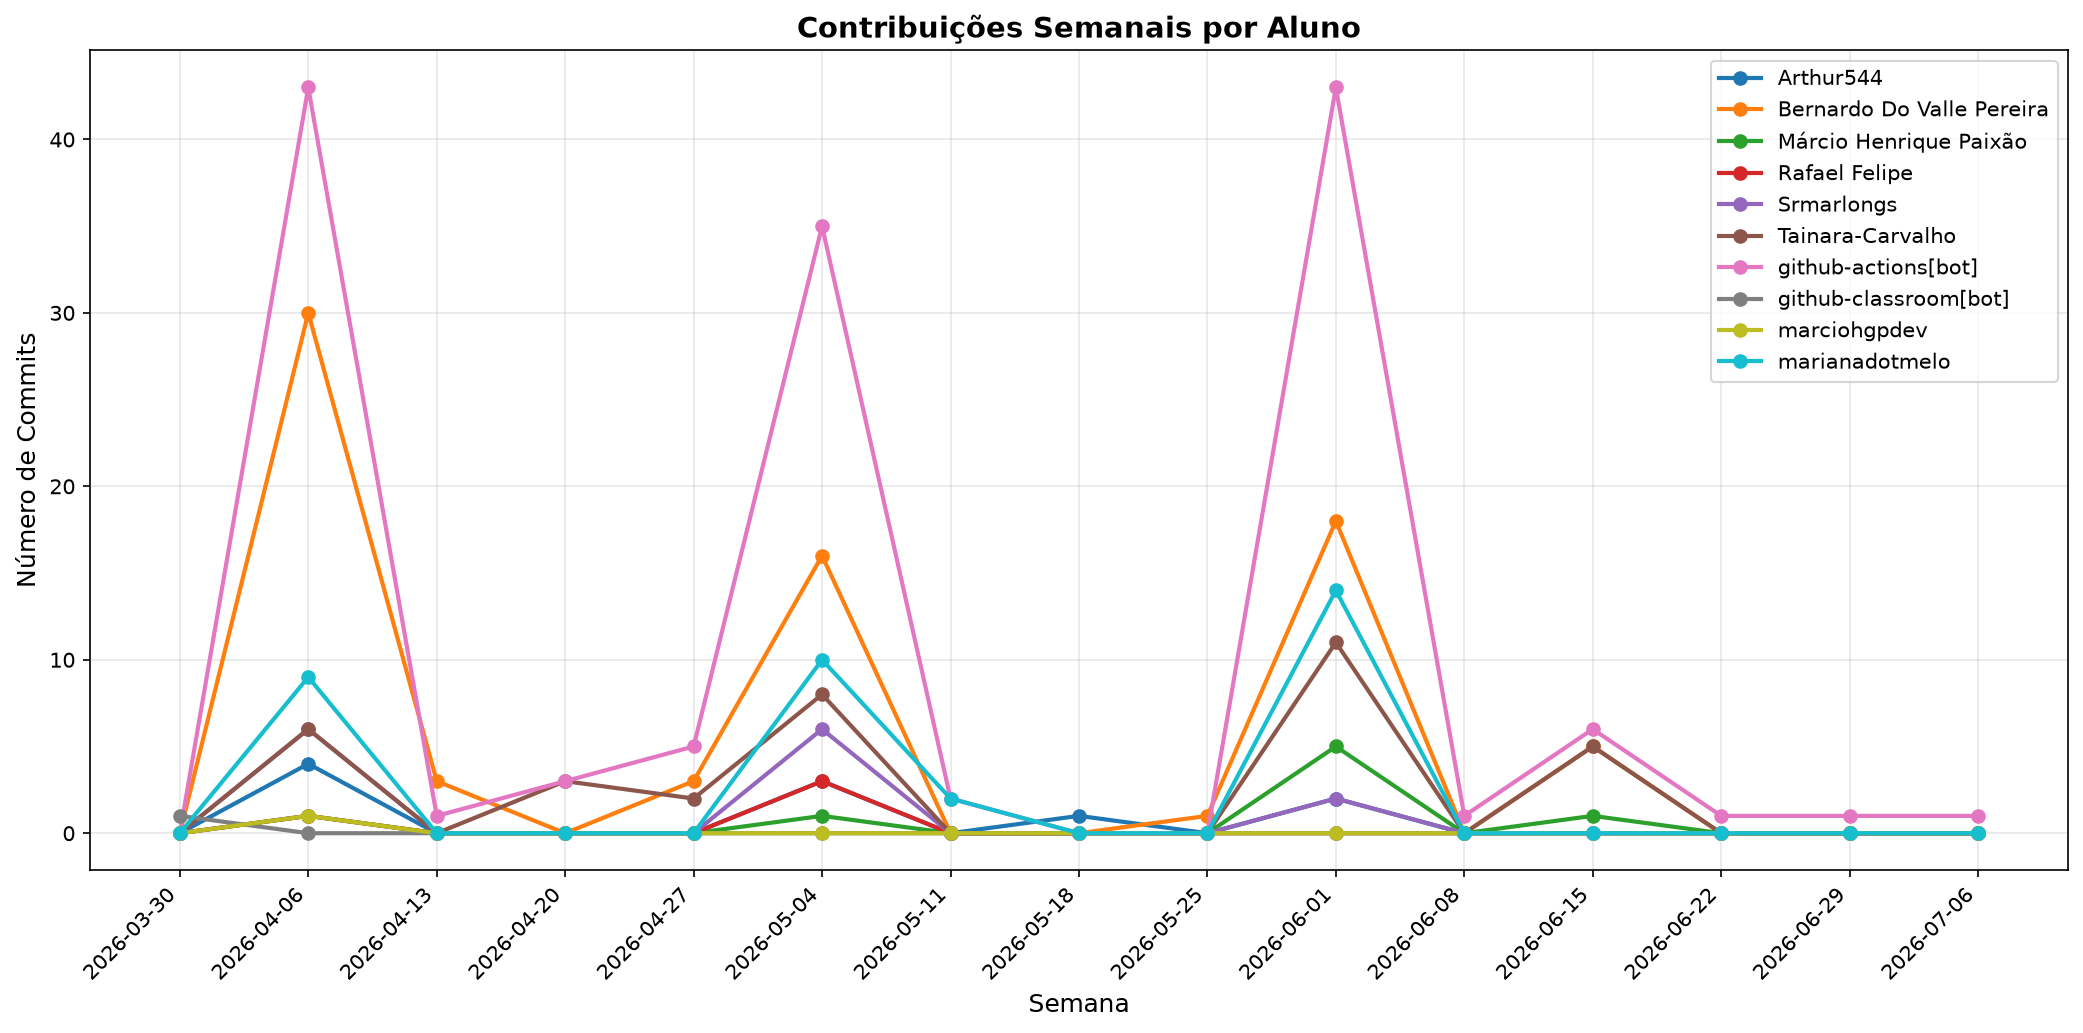
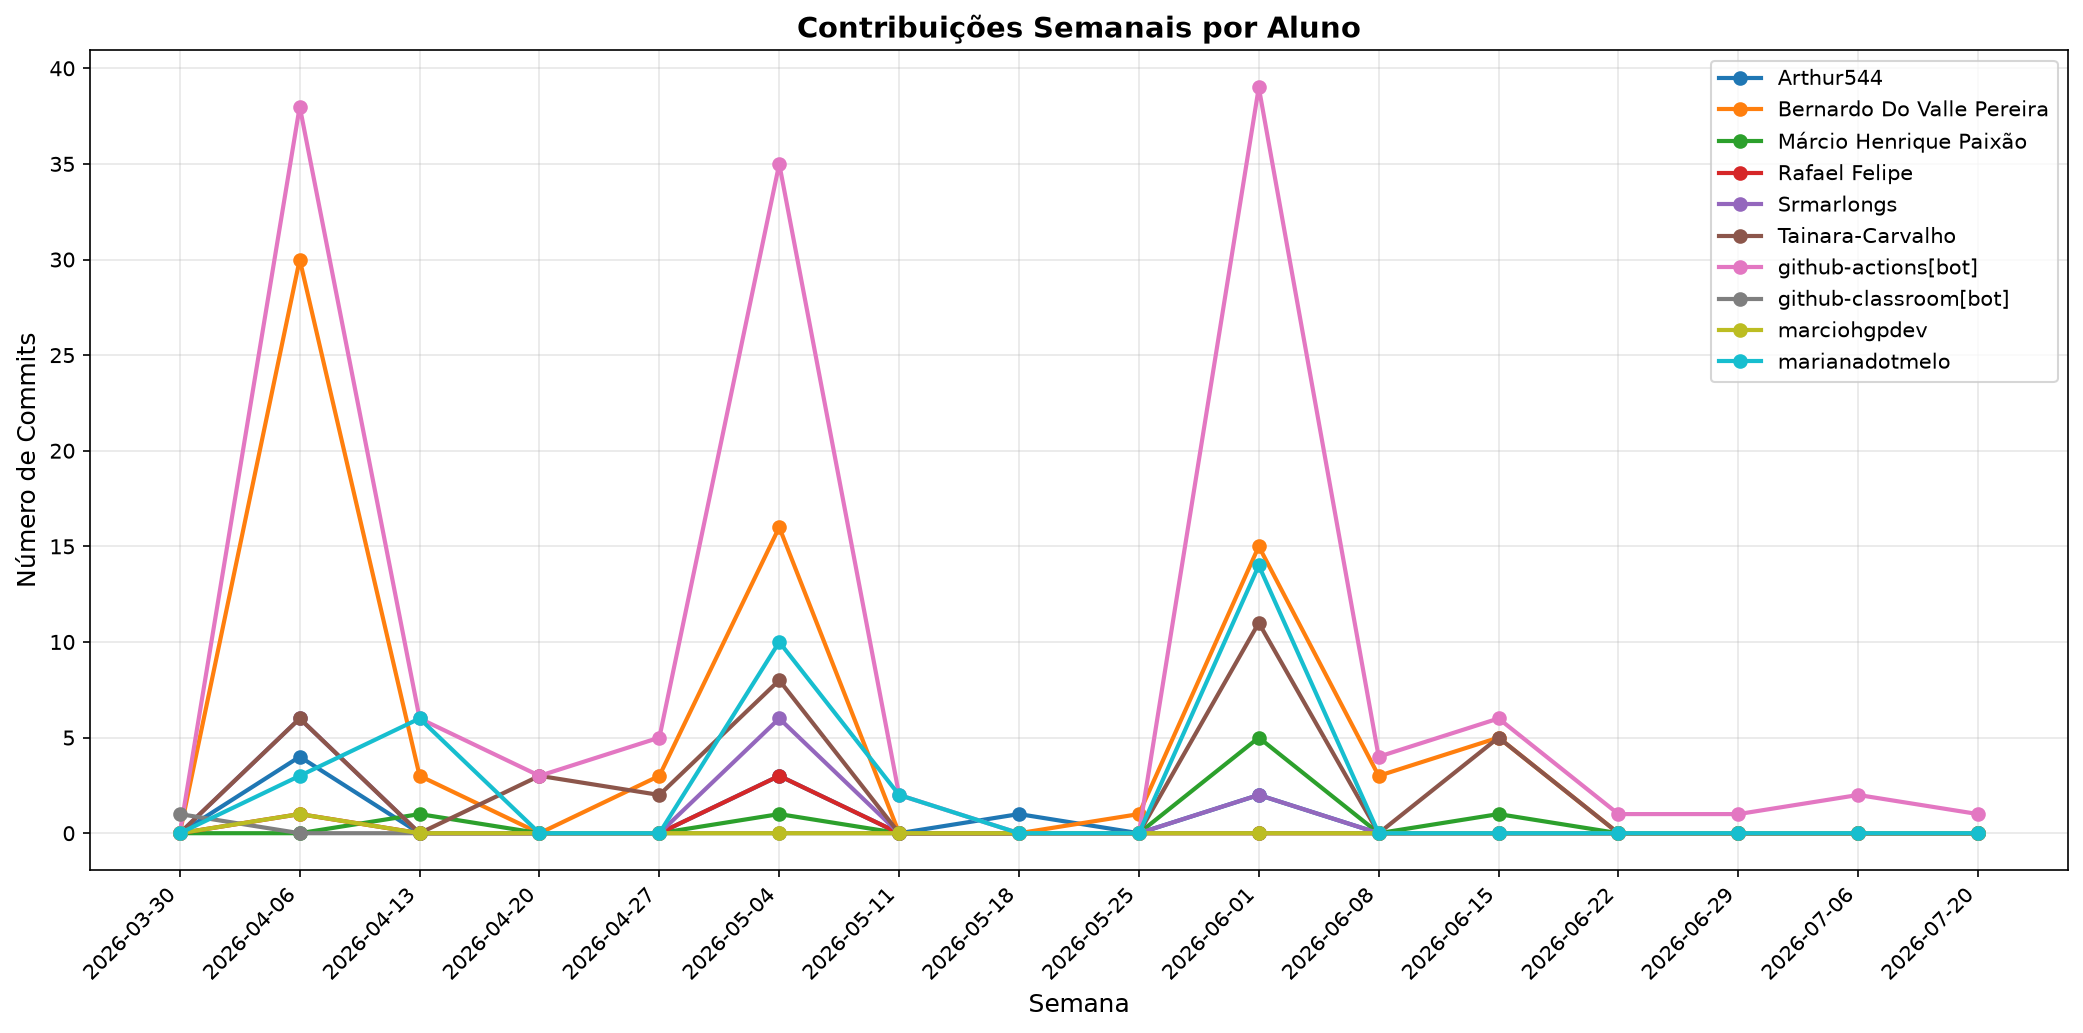
📊 Atualizar relatório de contribuições [skip ci]

diff --git a/documentos/CONTRIBUTION_REPORT.md b/documentos/CONTRIBUTION_REPORT.md
@@ -1,6 +1,6 @@
 # 📊 Relatório de Contribuições do Projeto
 
-**Última atualização:** 20/07/2026 02:57
+**Última atualização:** 27/07/2026 00:20
 
 ---
 
@@ -14,7 +14,7 @@
 | Rafael Felipe             |         4 |       249 |         2 |          4 |              2 |               1 |
 | Srmarlongs                |        14 |      1575 |        11 |         13 |             10 |               2 |
 | Tainara-Carvalho          |        35 |       825 |       278 |          9 |             31 |               2 |
-| github-actions[bot]       |       142 |       806 |       726 |          3 |            142 |               1 |
+| github-actions[bot]       |       143 |       812 |       732 |          3 |            143 |               1 |
 | github-classroom[bot]     |         1 |       774 |         0 |         19 |              1 |               3 |
 | marciohgpdev              |         1 |         5 |         5 |          1 |              1 |               1 |
 | marianadotmelo            |        35 |       835 |       446 |         14 |             20 |               3 |
@@ -22,7 +22,9 @@
 
 ## 📅 Contribuições Semanais (Todo o Semestre)
 
-**2026-07-06**: github-actions[bot]: 1
+**2026-07-20**: github-actions[bot]: 1
+
+**2026-07-06**: github-actions[bot]: 2
 
 **2026-06-29**: github-actions[bot]: 1
 
@@ -30,9 +32,9 @@
 
 **2026-06-15**: Bernardo Do Valle Pereira: 5, Márcio Henrique Paixão: 1, Tainara-Carvalho: 5, github-actions[bot]: 6
 
-**2026-06-08**: github-actions[bot]: 1
+**2026-06-08**: Bernardo Do Valle Pereira: 3, github-actions[bot]: 4
 
-**2026-06-01**: Arthur544: 2, Bernardo Do Valle Pereira: 18, Márcio Henrique Paixão: 5, Srmarlongs: 2, Tainara-Carvalho: 11, github-actions[bot]: 43, marianadotmelo: 14
+**2026-06-01**: Arthur544: 2, Bernardo Do Valle Pereira: 15, Márcio Henrique Paixão: 5, Srmarlongs: 2, Tainara-Carvalho: 11, github-actions[bot]: 39, marianadotmelo: 14
 
 **2026-05-25**: Bernardo Do Valle Pereira: 1
 
@@ -46,9 +48,9 @@
 
 **2026-04-20**: Tainara-Carvalho: 3, github-actions[bot]: 3
 
-**2026-04-13**: Bernardo Do Valle Pereira: 3, github-actions[bot]: 1
+**2026-04-13**: Bernardo Do Valle Pereira: 3, Márcio Henrique Paixão: 1, github-actions[bot]: 6, marianadotmelo: 6
 
-**2026-04-06**: Arthur544: 4, Bernardo Do Valle Pereira: 30, Márcio Henrique Paixão: 1, Rafael Felipe: 1, Srmarlongs: 6, Tainara-Carvalho: 6, github-actions[bot]: 43, marciohgpdev: 1, marianadotmelo: 9
+**2026-04-06**: Arthur544: 4, Bernardo Do Valle Pereira: 30, Rafael Felipe: 1, Srmarlongs: 6, Tainara-Carvalho: 6, github-actions[bot]: 38, marciohgpdev: 1, marianadotmelo: 3
 
 **2026-03-30**: github-classroom[bot]: 1
 
